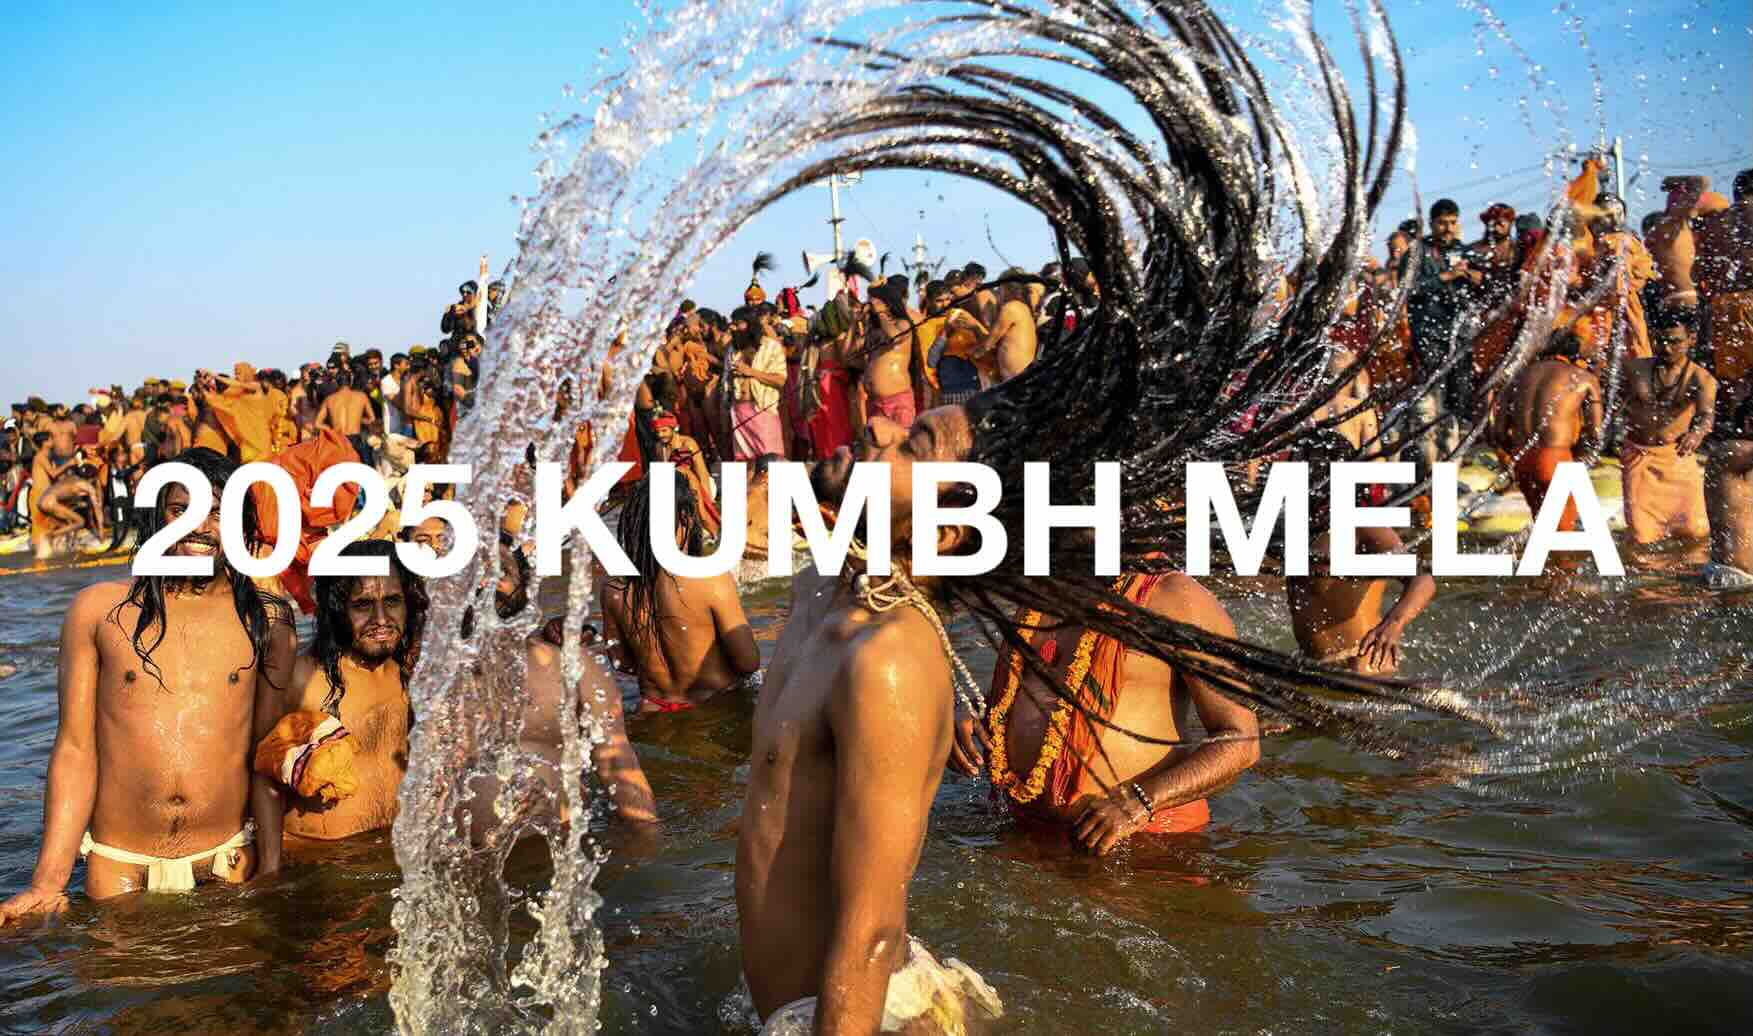
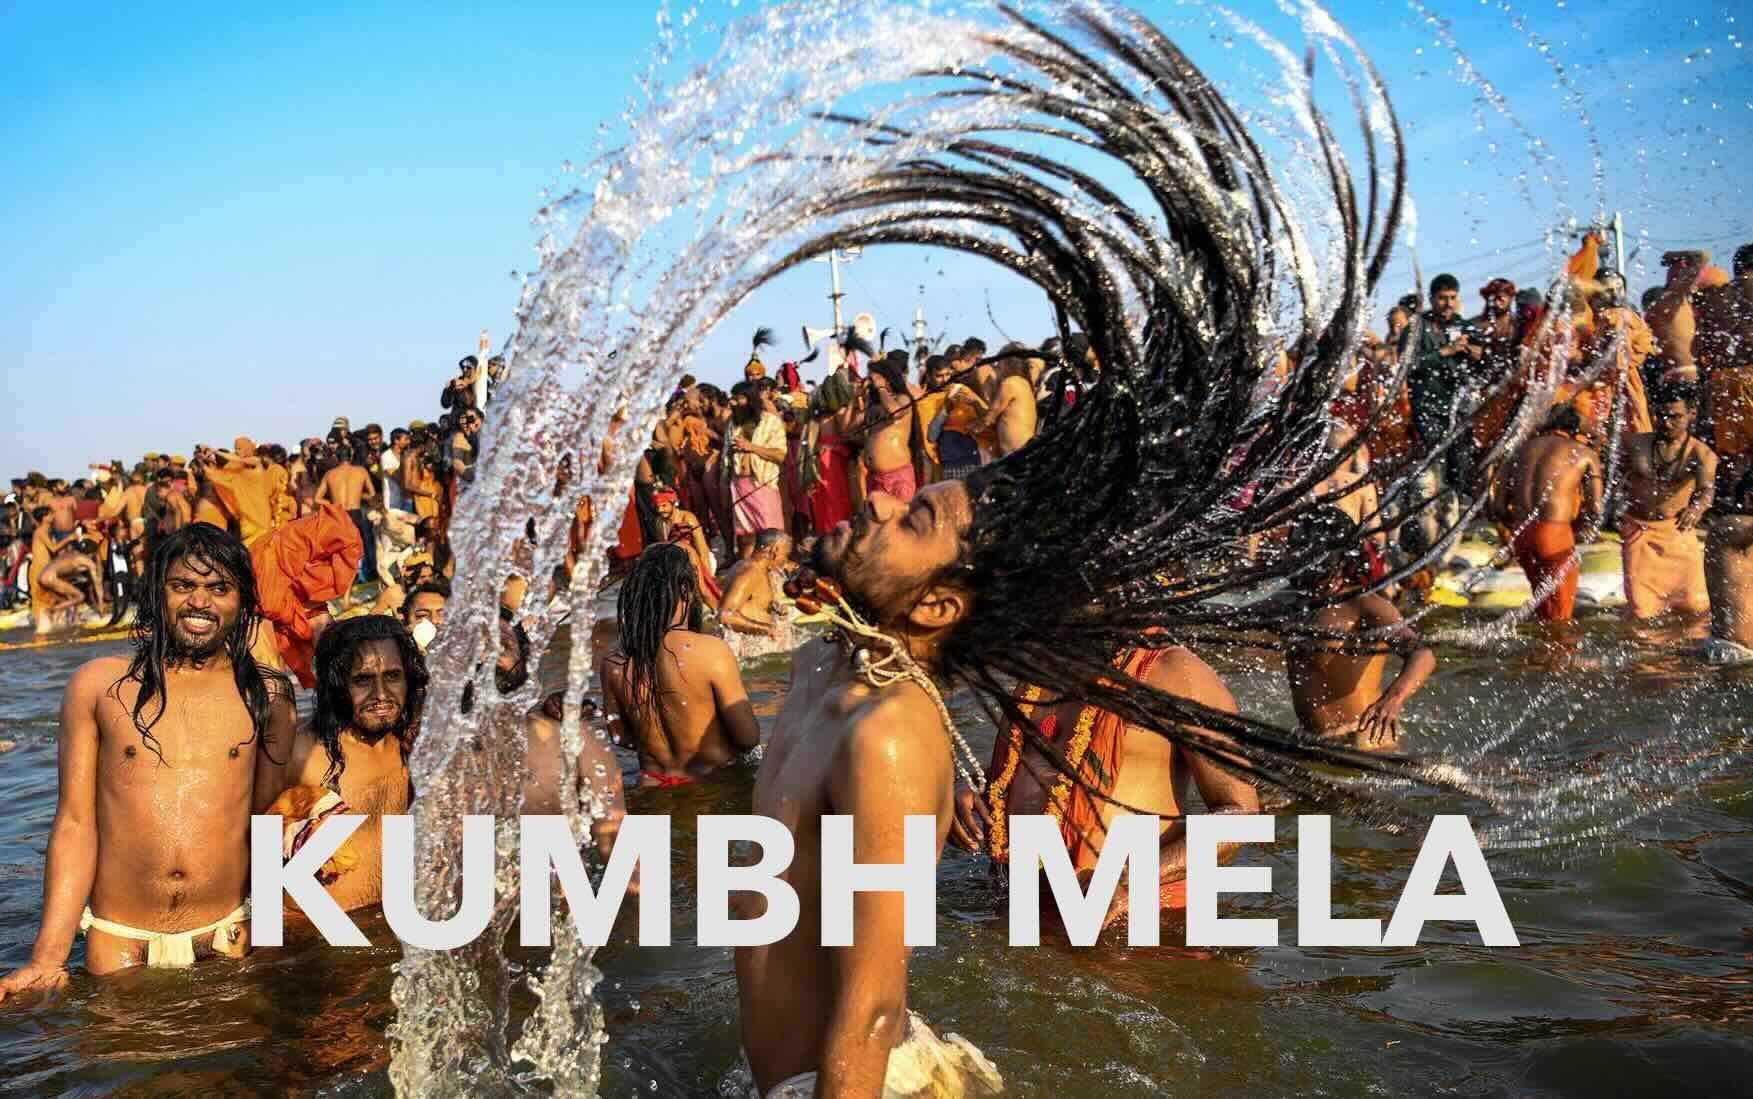
reel_added

diff --git a/nonfiction.html b/nonfiction.html
@@ -1388,6 +1388,26 @@
     </div>
 </div>
 
+<!-- NEW: Reel Video Embed -->
+<div style="width:100%; padding: 0 10% 8vh 10%; background-color:#0e0e0e;">
+  <div style="max-width:1400px; margin:0 auto;">
+    <div style="padding:52.73% 0 0 0;position:relative;border-radius:8px;overflow:hidden;box-shadow:0 4px 20px rgba(0,0,0,0.5);">
+      <iframe 
+        src="https://player.vimeo.com/video/1174230339?badge=0&autopause=0&player_id=0&app_id=58479" 
+        frameborder="0" 
+        allow="autoplay; fullscreen; picture-in-picture; clipboard-write; encrypted-media; web-share" 
+        referrerpolicy="strict-origin-when-cross-origin" 
+        style="position:absolute;top:0;left:0;width:100%;height:100%;" 
+        title="Pablo Mahave | Director & Cinematographer | 2026 Reel">
+      </iframe>
+    </div>
+    <div style="text-align:center; margin-top: 20px;">
+      <h2 class="project-title">Direction & Cinematography Reel</h2>
+    </div>
+  </div>
+</div>
+<script src="https://player.vimeo.com/api/player.js"></script>
+
 <!-- UPDATED: Project Detail Section with Thumbnail Only and Reversed Layout -->
 <div class="project-detail-section onsight-project">
     <!-- Project Content Container with reversed layout -->
@@ -1402,7 +1422,7 @@
         <!-- Right side: Project info container -->
         <div class="project-info-container">
             <div class="project-description">
-                <h2 class="project-title">[Title TBA, 2025]</h2>
+                <h2 class="project-title">[Title TBA, 2026]</h2>
                 <div class="project-text">
                     <span class="tech-badge">Documentary</span>
                     <span class="tech-badge">Production</span>
@@ -1413,7 +1433,7 @@
                     This in-progress documentary explores how religious devotion not only shapes personal and collective identities but also anchors communities navigating the tensions of a rapidly changing India.   
                 </div>
                 <div class="project-text">
-                    Set against the backdrop of the 2025 Kumbh Mela—the largest human gathering in history—the film investigates how political ideology is increasingly intertwined with religious beliefs, reshaping public life in contemporary society.
+                    Set against the backdrop of the Kumbh Mela—the largest human gathering in history—the film investigates how political ideology is increasingly intertwined with religious beliefs, reshaping public life in contemporary society.
                 </div>
                 <div class="project-credits">
                     <div class="credit-line">Executive Producer: <span class="credit-name">Pablo Mahave</span></div>
